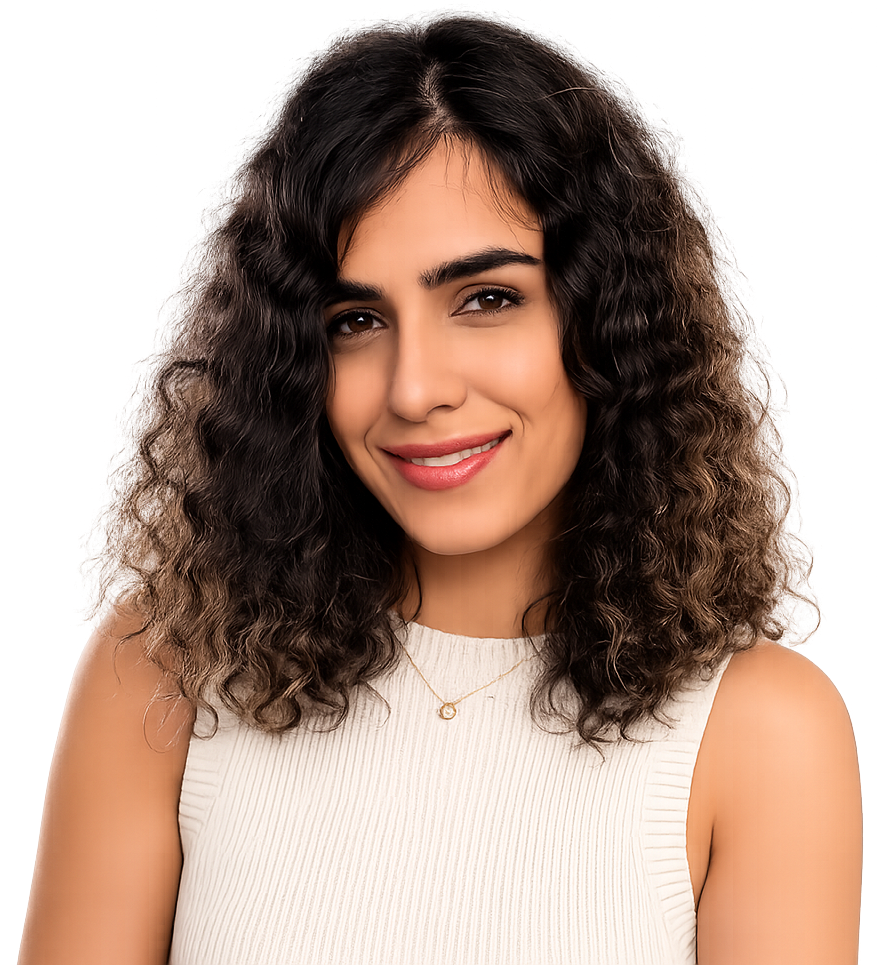
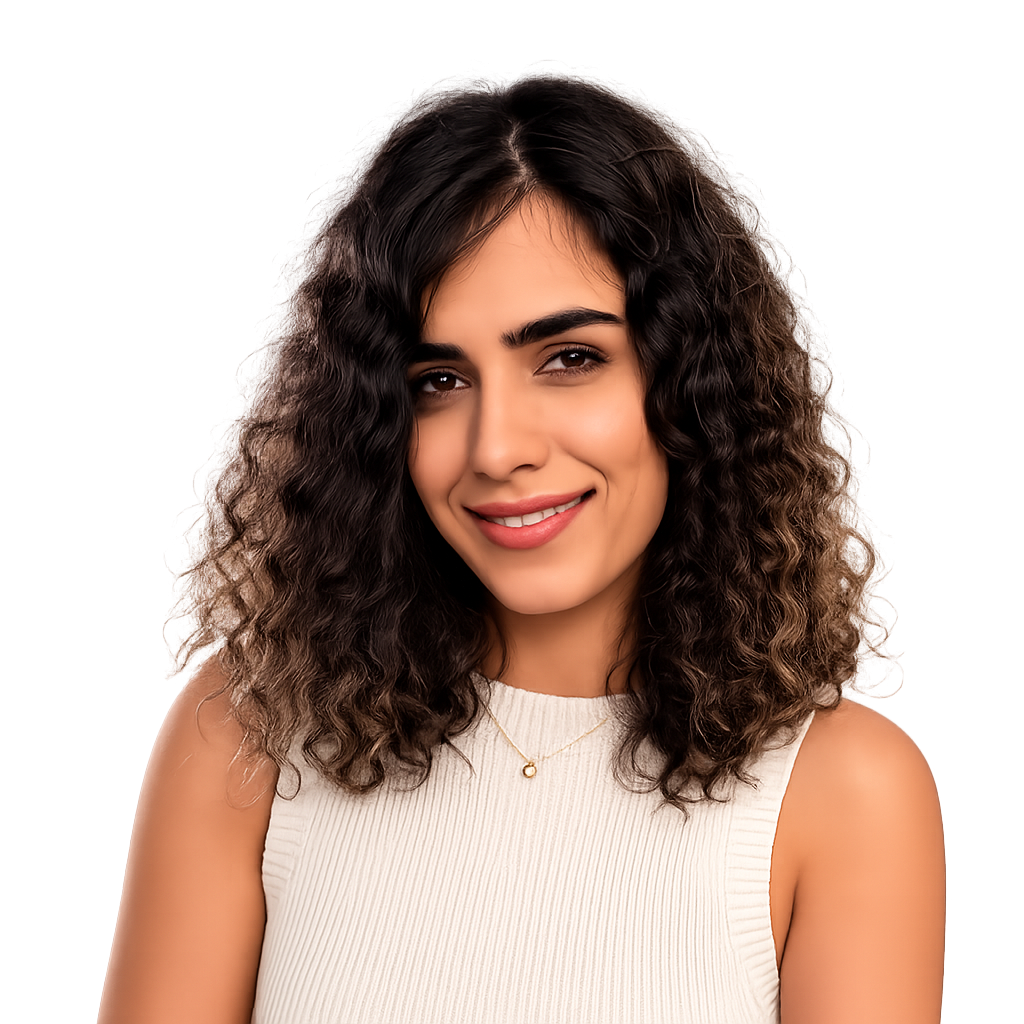
Update credentials description and enhance Farsi translation

diff --git a/src/routes/+page.svelte b/src/routes/+page.svelte
@@ -291,7 +291,7 @@
 				],
 				alsoHeading: 'Additional Credentials',
 				also: [
-					'Professional baking',
+					'Professional baking and cooking',
 					'Karate brown belt',
 					'CPR & Basic Life Support',
 					'20 years of professional soccer playing experience, including four years leading Aboumoslem Soccer Club.'
@@ -497,7 +497,7 @@
 				],
 				alsoHeading: 'گواهی ها و تجربه های دیگر',
 				also: [
-					'شیرینی پزی حرفه ای',
+					'شیرینی پزی و آشپزی حرفه ای',
 					'کمربند قهوه ای کاراته',
 					'CPR و حمایت حیاتی پایه',
 					'۲۰ سال تجربه بازی فوتبال حرفه ای، از جمله ۴ سال هدایت باشگاه ابومسلم.'